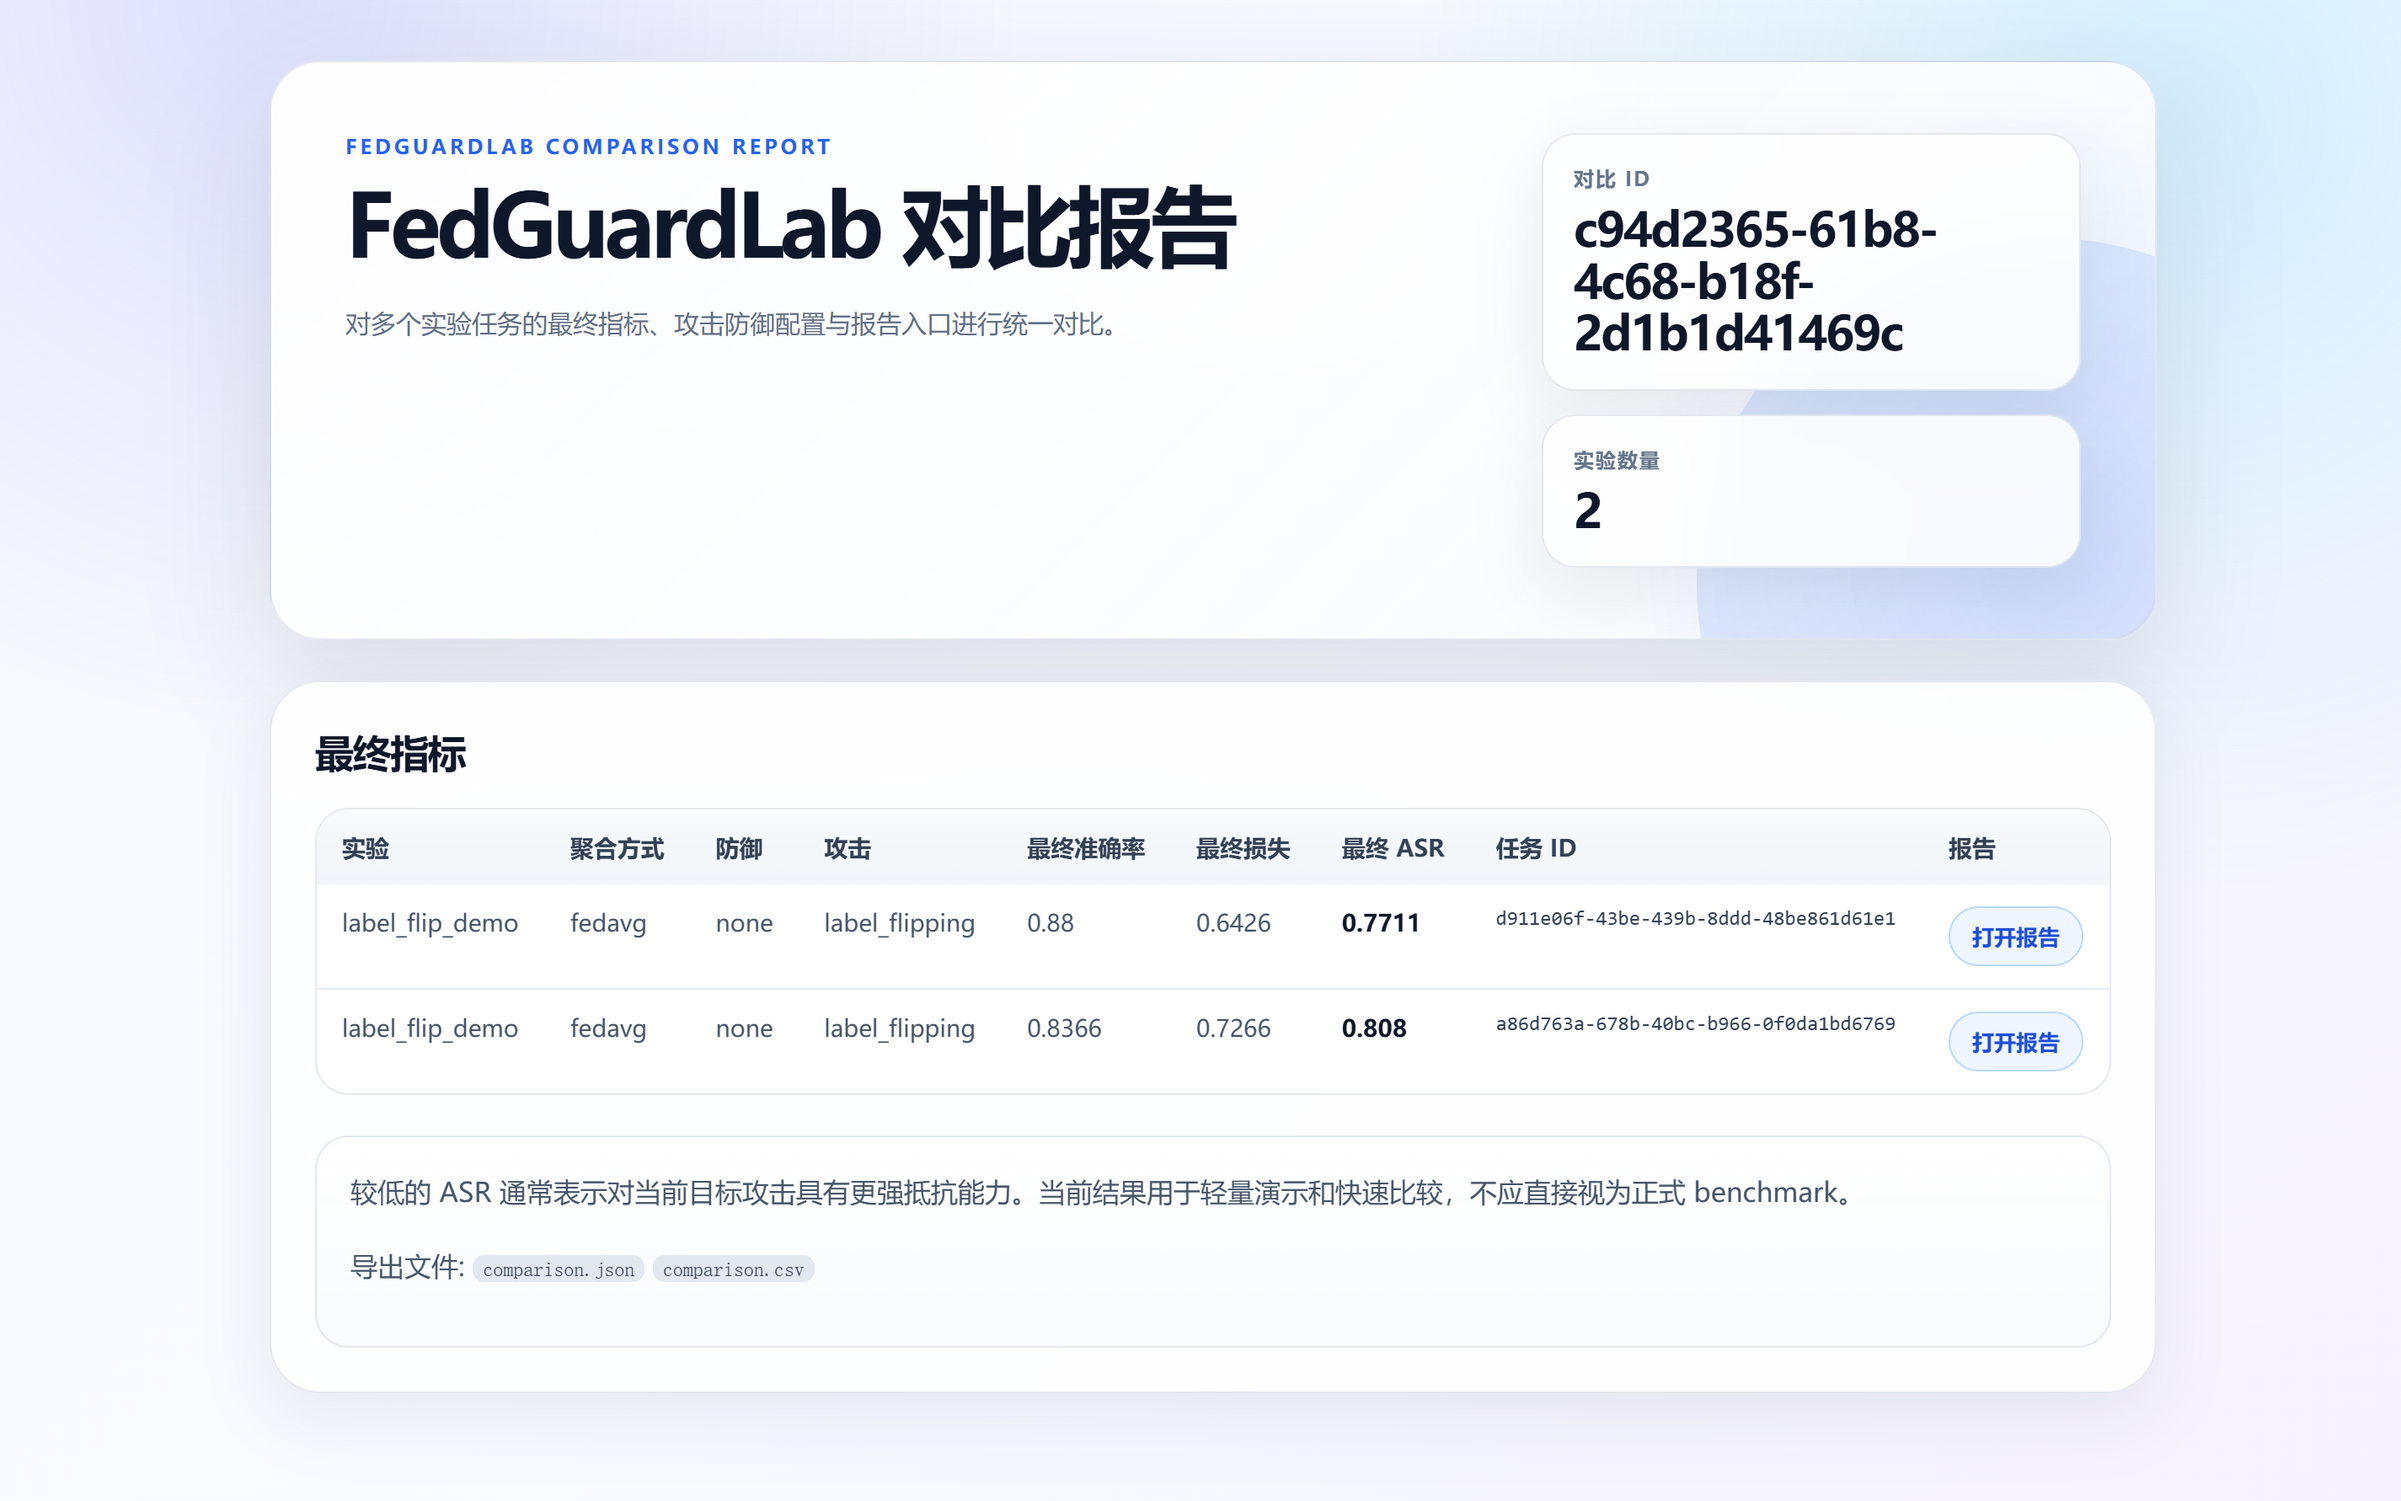
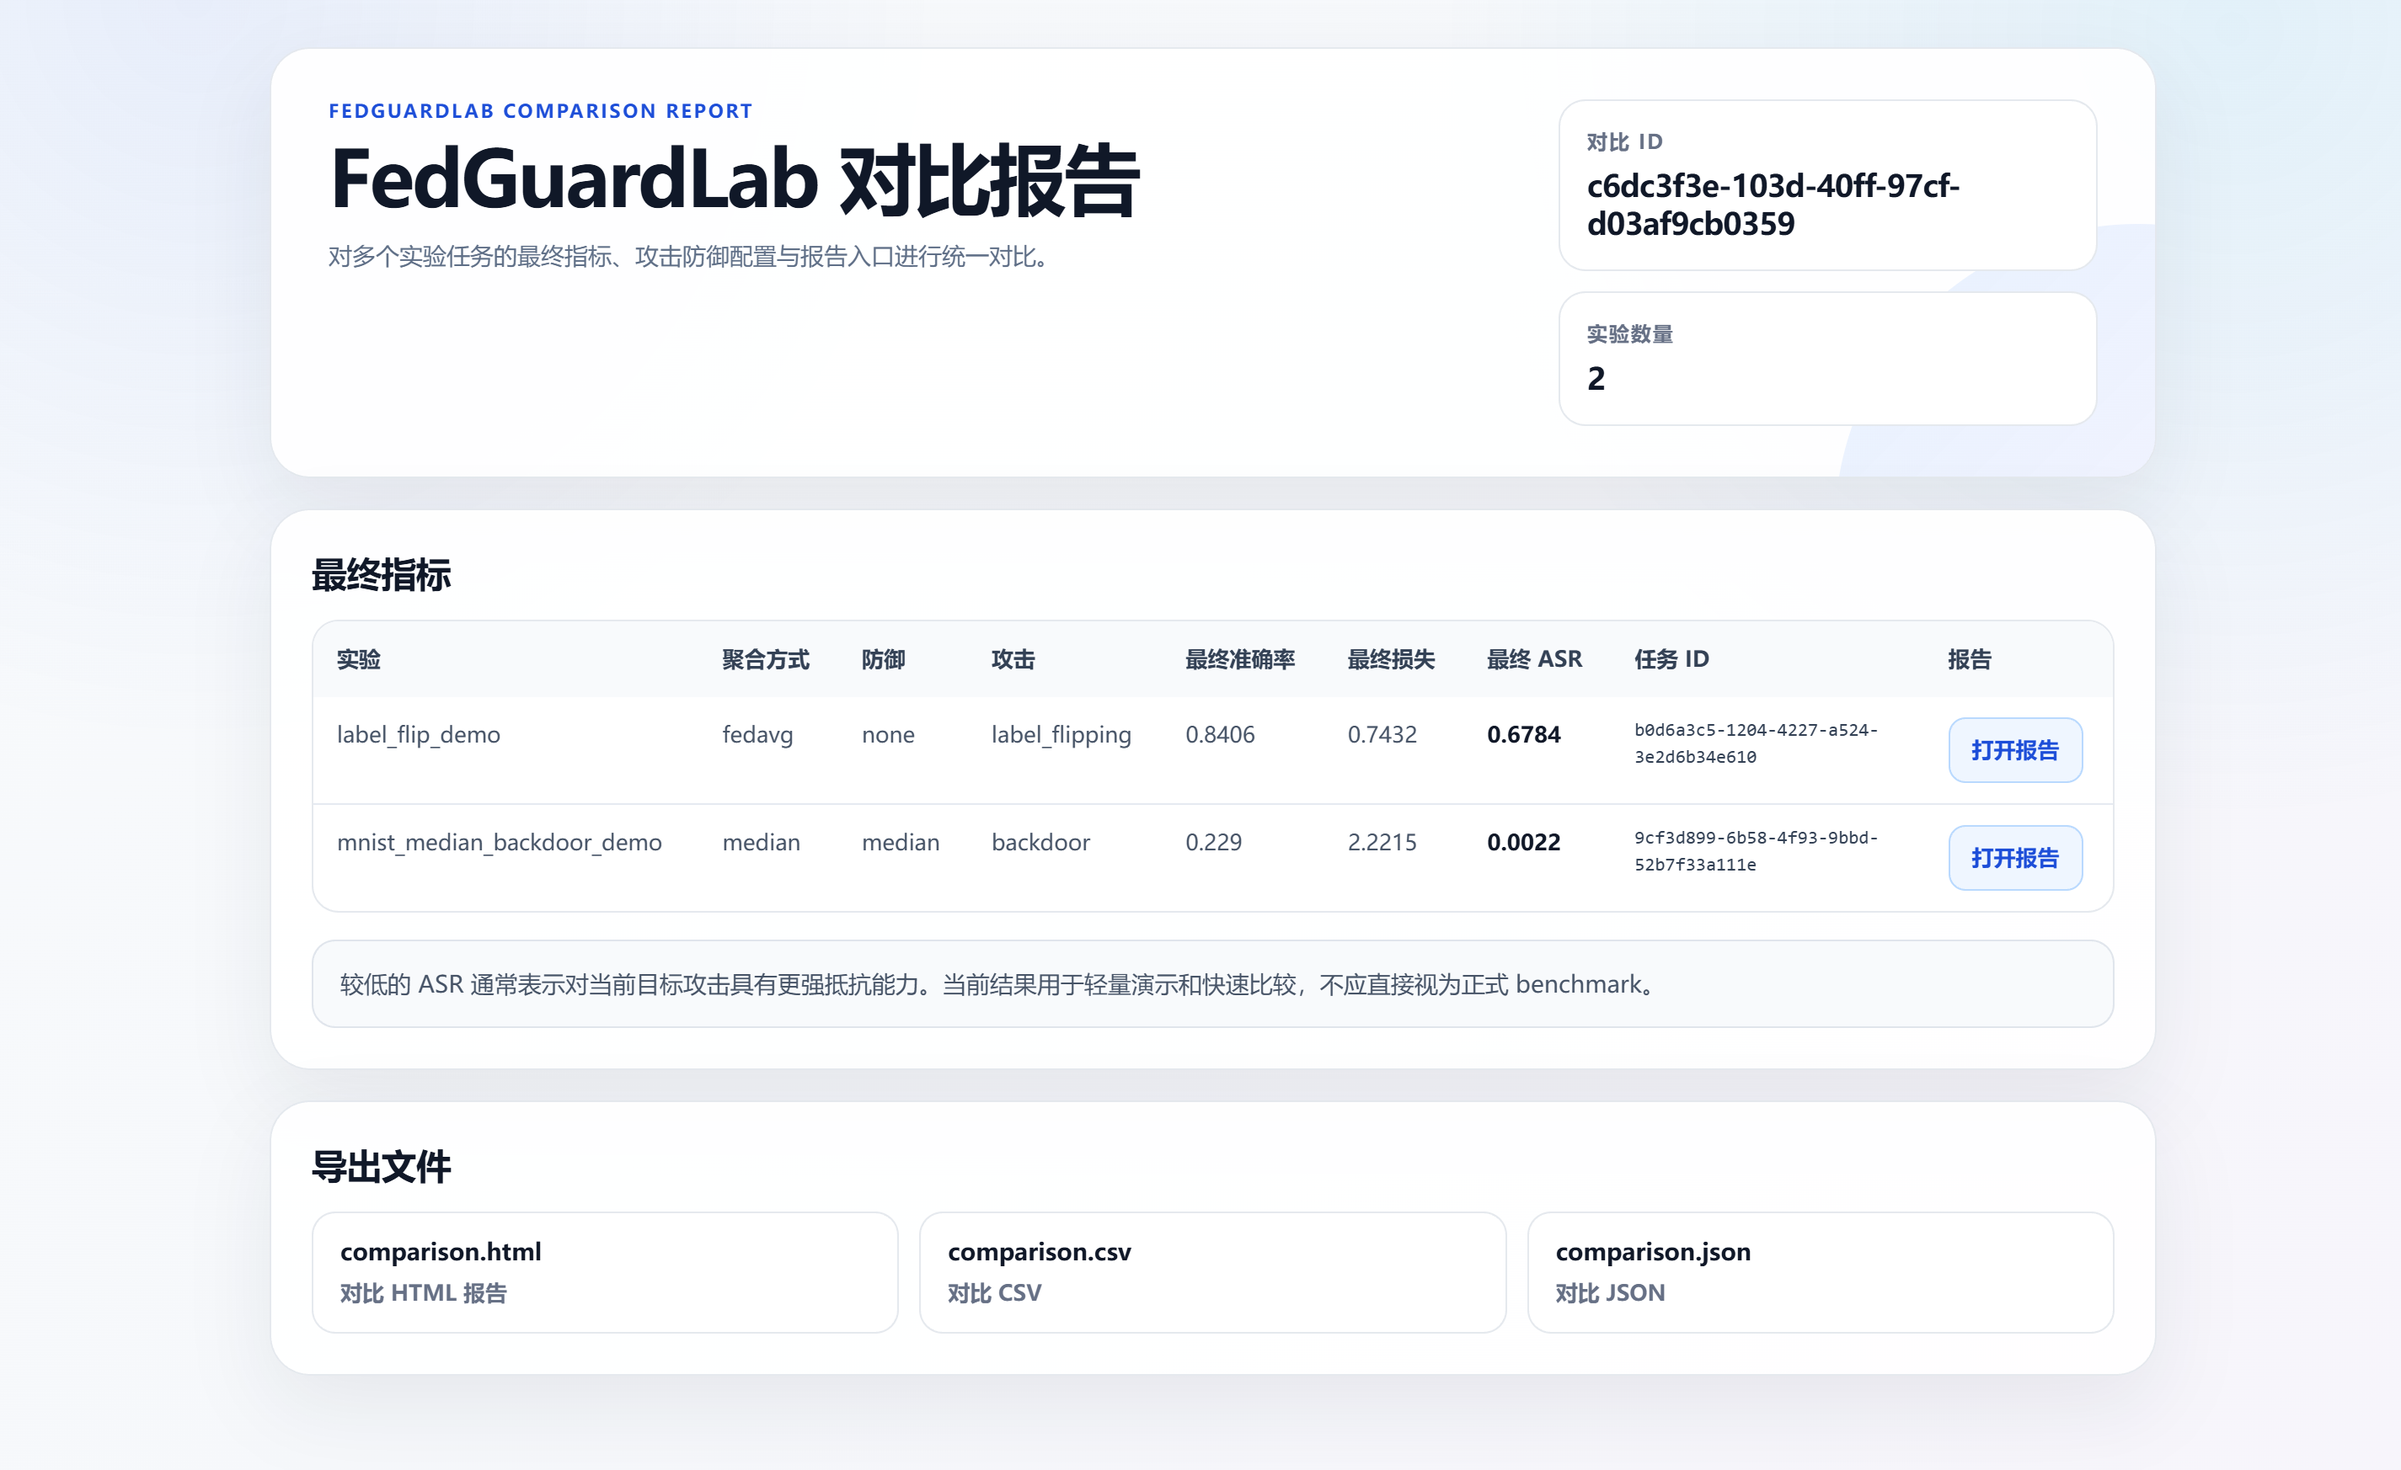
docs: sync project status for v1.8.9 (#78)

diff --git a/README.md b/README.md
@@ -1,4 +1,4 @@
-# FedGuardLab
+# FedGuardLab
 
 ![CI](https://github.com/Calvin1989/FedGuardLab/actions/workflows/ci.yml/badge.svg)
 
@@ -241,20 +241,17 @@ reports/comparisons/<comparison_id>/
 当前稳定版本：
 
 ```text
-v1.8.0
+v1.8.9
 ```
 
-v1.8.0 重点改进：
+v1.8.9 重点改进：
 
-* Job event timeline：记录 created、started、round_progress、artifact_written、finished、failed、cancelled 等生命周期事件。
-* Runtime diagnostics：失败时暴露 failure reason 和 traceback summary，便于定位训练或配置问题。
-* Result insight cards：在 Dashboard 和 comparison report 中展示结果洞察。
-* Comparison highlights：高亮 best accuracy、lowest loss、lowest ASR，并给出 winner / trade-off / risk hint。
-* Config preview：运行实验前展示 dataset、aggregation、attack、defense、rounds、clients 等关键配置。
-* Config explainability：为关键配置字段提供中文 / English 说明、risk level 和 recommended use。
-* Dashboard density polish：压缩首页顶部区域和配置预览区域，减少首屏垂直占用。
-* Dashboard layout rebalance：优化 Dashboard 信息层级和布局比例。
-* Regression tests and CI smoke hardening：补强 report/artifact、event timeline、comparison insights、config preview、API smoke 和 Docker recovery 验证。
+* Dashboard runtime summary UI polish：统一状态值与运行指标的视觉尺寸和层级。
+* Deferred report card：未启动实验时隐藏报告卡片，实验启动后显示“未就绪”，报告生成后显示“HTML 报告 / HTML report”。
+* Dashboard job detail density polish：压缩任务详情、导出文件、事件时间线、训练轮次详情和已选择实验区域的垂直空间。
+* Config preview i18n polish：优化配置预览中文化、Attack / Defense 文案、空状态和下拉框宽度。
+* Documentation sync：同步 README、CHANGELOG、roadmap 和 Dashboard / report 截图，使文档与 v1.8.9 当前稳定状态一致。
+* Verification hardening：v1.8.9 已通过 ruff、quick test、pytest、frontend build、API smoke 和 Docker recovery 全流程验证。
 
 兼容性说明：
 
@@ -262,6 +259,8 @@ v1.8.0 重点改进：
 * 不改变已有 API 路径。
 * 不改变训练核心算法。
 * 不改变已有 report/artifact URL。
+* 不改变 Docker runtime 行为。
+* 不改变测试数据结构。
 * 继续保持中文 / English 双语支持。
 
 ---

diff --git a/CHANGELOG.md b/CHANGELOG.md
@@ -2,7 +2,37 @@
 
 ## Unreleased
 
-- No unreleased changes.
+- Synced project documentation after the v1.8.9 stable release.
+  - Updated README current version status to v1.8.9.
+  - Refreshed Dashboard, experiment report, and comparison report screenshots.
+  - Prepared CHANGELOG and roadmap entries for the v1.8.8 / v1.8.9 UI polish sequence.
+  - Documentation-only update; no API change, no training logic change, no report artifact URL change, no Docker runtime change.
+
+## v1.8.9
+
+- Polished Dashboard job detail and comparison density.
+  - Compacted job detail card spacing, field grid, exports area, event timeline, round detail log, and selected job chips.
+  - Reduced visual load in the lower Dashboard comparison area.
+  - Kept the runtime summary behavior from v1.8.8 unchanged.
+  - Only modified Dashboard UI styling in `web/src/App.vue`.
+  - No API change, no training logic change, no report artifact URL change, no Docker runtime change, no test data structure change.
+  - Verified with:
+    - `python -m ruff check .`
+    - `python quick_test.py`
+    - `python -m pytest`
+    - `cd web && npm run build`
+    - `python api_smoke_test.py`
+    - Docker full flow: compose config/build/up, wait-finished smoke run, backend restart recovery, compose down.
+
+## v1.8.8
+
+- Polished Dashboard runtime summary UI.
+  - Normalized status values and runtime metric values for visual parity.
+  - Hid the report card before experiment start.
+  - Displayed report as not ready after experiment start and before report generation.
+  - Displayed “HTML 报告 / HTML report” after report generation.
+  - Polished runtime summary row, training round detail arrow, config preview localization, Attack / Defense i18n, empty states, and dropdown width.
+  - No API change, no training logic change, no report artifact URL change, no Docker runtime change.
 
 ## v1.8.0
 

diff --git a/docs/roadmap.md b/docs/roadmap.md
@@ -1,4 +1,4 @@
-# Roadmap
+# Roadmap
 
 FedGuardLab 的目标是逐步构建一个轻量、可视化、可复现的联邦学习安全实验平台。
 
@@ -1372,3 +1372,30 @@ Checklist：
 - [x] GitHub Actions CI passing on main
 - [x] GitHub Actions Docker Smoke manual workflow passing on main
 - [x] Final tag 打在 main merge commit 上（PR 合并后）
+
+---
+
+## v1.8.8 / v1.8.9 Maintenance Updates
+
+### v1.8.8 — completed
+
+Focus: Dashboard runtime summary UI polish.
+
+- [x] 统一状态值和运行指标的视觉尺寸与层级。
+- [x] 未启动实验时隐藏报告卡片。
+- [x] 实验启动后报告状态显示“未就绪”。
+- [x] 报告生成后显示“HTML 报告 / HTML report”。
+- [x] 优化运行摘要行、训练轮次详情箭头、配置预览中文化、Attack / Defense i18n、空状态和下拉框宽度。
+- [x] 不修改 API、训练逻辑、report artifact URL、Docker runtime 或测试数据结构。
+
+### v1.8.9 — completed
+
+Focus: Dashboard job detail and comparison density polish.
+
+- [x] 压缩任务详情卡片 spacing、字段网格、导出文件区域、事件时间线、训练轮次详情和已选择实验区域。
+- [x] 降低 Dashboard 下半部分 comparison / job detail 区域的信息负载。
+- [x] 保持 v1.8.8 runtime summary 行为不变。
+- [x] 更新 README 中的当前稳定版本说明。
+- [x] 刷新 Dashboard、单实验报告和对比报告截图。
+- [x] 完成 v1.8.9 验证闭环：ruff、quick test、pytest、frontend build、API smoke、Docker full flow 和 backend restart recovery。
+- [x] 不修改 API、训练逻辑、report artifact URL、Docker runtime 或测试数据结构。
